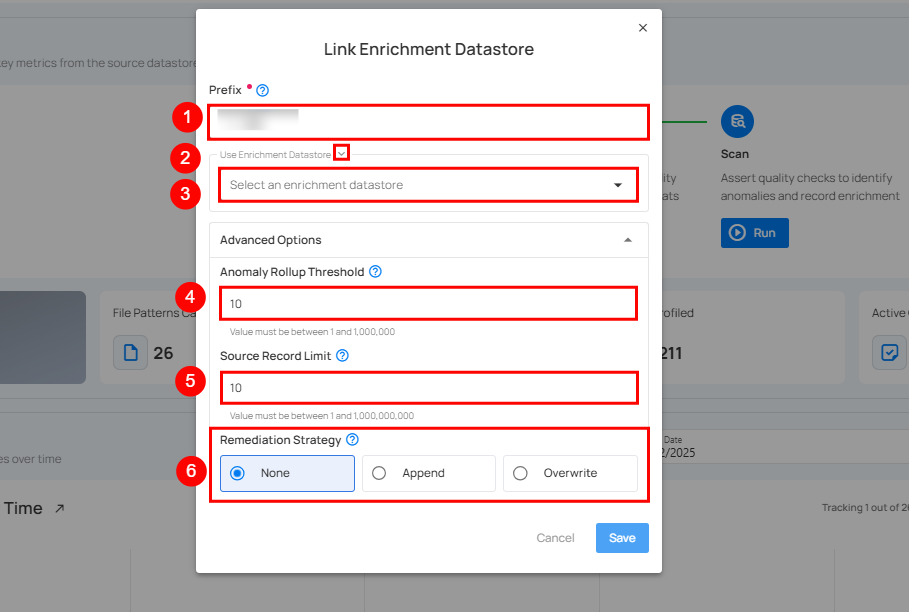
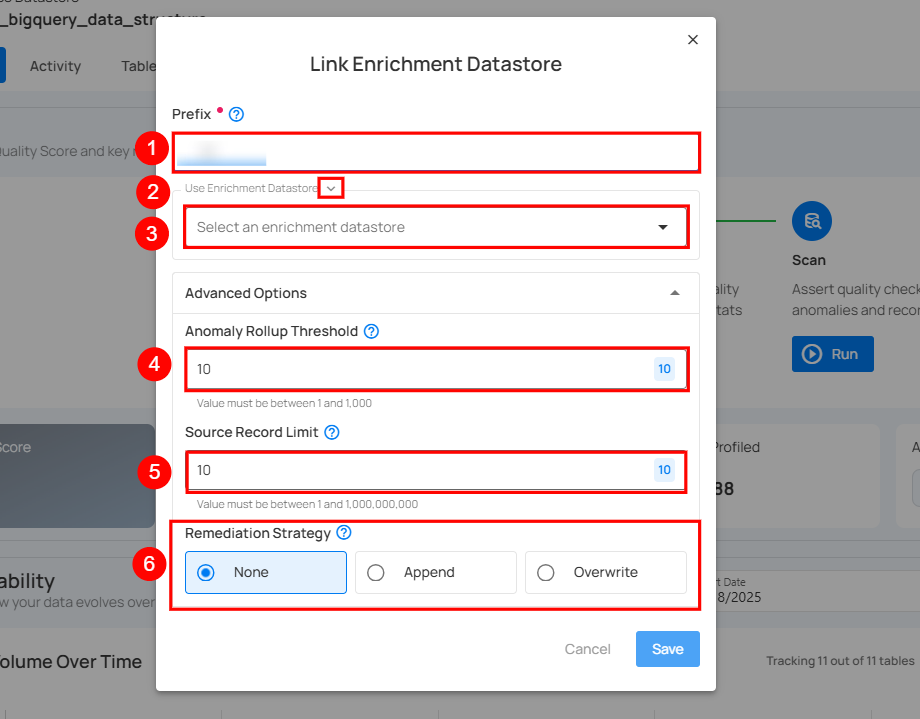
QUA-972: Update "Link enrichment" userguide as per the latest release.

diff --git a/docs/source-datastore/link-enrichment.md b/docs/source-datastore/link-enrichment.md
@@ -13,8 +13,8 @@ A modal window **Link Enrichment Datastore** will appear, providing you with two
 | 1. | Prefix | Add a prefix name to uniquely identify tables/files when Qualytics writes metadata from the source datastore to your enrichment datastore. |
 | 2. | Caret Down Button | Click the caret down to select either **Use Enrichment Datastore** or **Add Enrichment Datastore**. |
 | 3. | Enrichment Datastore | Select an enrichment datastore from the dropdown list. |
-| 4. | Anomaly Rollup Threshold | Sets the maximum number of anomalies per check before they are merged into one. Value must be between 1 and 1,000,000. |
-| 5. | Source Record Limit | Sets the maximum number of records written to the enrichment for each detected anomaly. The value must be between 1 and 1,000,000,000. |
+| 4. | Anomaly Rollup Threshold | Sets the maximum number of anomalies per check before they are merged into one anomaly. Value must be between 1 and 1,000. |
+| 5. | Source Record Limit | Sets the maximum number of records written to the enrichment datastore for each detected anomaly. The value must be between 1 and 1,000,000,000. |
 | 6. | Remediation Strategy | The Remediation Strategy defines how anomalous source tables are replicated in the enrichment datastore. You can choose **None** (no replication), **Append** (append new data), or **Overwrite** (replace existing data). |
 
 ### Option I: Link New Enrichment
@@ -35,8 +35,8 @@ A modal window **Link Enrichment Datastore** will appear. Enter the following de
 | 2. | Name | Give a name for the enrichment datastore. |
 | 3. | Toggle Button for adding new connection | Toggle ON to create a new enrichment from scratch or toggle OFF to reuse credentials from an existing connection. |
 | 4. | Connector | Select a datastore connector from the dropdown list. |
-| 5. | Anomaly Rollup Threshold | Sets the maximum number of anomalies per check before they are merged into one. Value must be between 1 and 1,000,000. |
-| 6. | Source Record Limit | Sets the maximum number of records written to the enrichment for each detected anomaly. The value must be between 1 and 1,000,000,000. |
+| 5. | Anomaly Rollup Threshold | Sets the maximum number of anomalies per check before they are merged into one anomaly. Value must be between 1 and 1,000. |
+| 6. | Source Record Limit | Sets the maximum number of records written to the enrichment datastore for each detected anomaly. The value must be between 1 and 1,000,000,000. |
 | 7. | Remediation Strategy | The Remediation Strategy defines how anomalous source tables are replicated in the enrichment datastore. You can choose **None** (no replication), **Append** (append new data), or **Overwrite** (replace existing data). |
 
 **Step 2:** Add connection details for your selected **enrichment datastore** connector.
@@ -74,11 +74,11 @@ If the **Use an existing enrichment datastore** option is selected from the drop
 | :---- | :---- | :---- |
 | 1. | Prefix | Add a prefix name to uniquely identify tables/files when Qualytics writes metadata from the source datastore to your enrichment datastore. |
 | 2. | Enrichment Datastore | Select an enrichment datastore from the dropdown list. |
-| 3. | Anomaly Rollup Threshold | Sets the maximum number of anomalies per check before they are merged into one. Value must be between 1 and 1,000,000. |
-| 4. | Source Record Limit | Sets the maximum number of records written to the enrichment for each detected anomaly. The value must be between 1 and 1,000,000,000. |
+| 3. | Anomaly Rollup Threshold | Sets the maximum number of anomalies per check before they are merged into one anomaly. Value must be between 1 and 1,000. |
+| 4. | Source Record Limit | Sets the maximum number of records written to the enrichment datastore for each detected anomaly. The value must be between 1 and 1,000,000,000. |
 | 5. | Remediation Strategy | The Remediation Strategy defines how anomalous source tables are replicated in the enrichment datastore. You can choose **None** (no replication), **Append** (append new data), or **Overwrite** (replace existing data). |
 
-**Step 3:** View and check the connection details of the enrichment and click on the **Save** button.
+**Step 3:** View and check the connection details of the enrichment datastore and click on the **Save** button.
 
 ![save](../assets/datastore-settings/link-enrichment/save-light-15.png)
 
